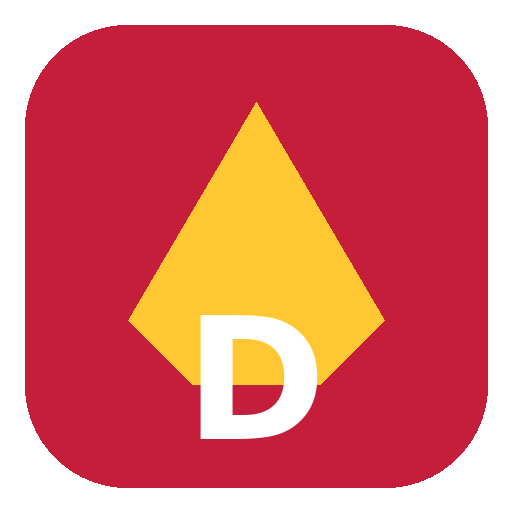
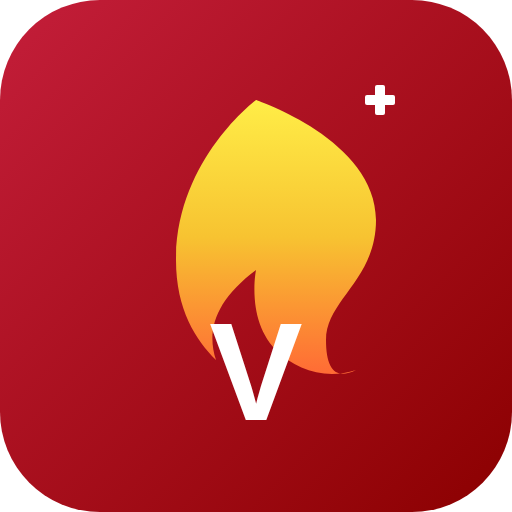
Nouveau nom : Vulcain (v1.13.0)
- DECIOPS devient Vulcain partout : en-tête (VUL/CAIN), titre, nom de
  l'application installée (manifest), À propos, pied de page, PDF générés,
  service worker, README, commentaires.
- Icône : lettre V au lieu de D ; PNG régénérés depuis icons/icon.svg.
- Clés de stockage « deciops.* » conservées : thème, favoris et historique
  des utilisateurs restent après la mise à jour.
- Explosimètre : une recherche tapée avant la fin du chargement de la liste
  des gaz est maintenant appliquée (le test correspondant échouait parfois).

Claude-Session: https://claude.ai/code/session_01SsUZJkSM2YeBHJQv6ctzzm

diff --git a/index.html b/index.html
@@ -3,16 +3,16 @@
 <head>
     <meta charset="UTF-8">
     <meta name="viewport" content="width=device-width, initial-scale=1.0, maximum-scale=5.0">
-    <meta name="version" content="1.12.0">
+    <meta name="version" content="1.13.0">
     <meta name="author" content="RESCUEAPP - LP ACADEMY">
-    <meta name="copyright" content="© 2025 RESCUEAPP - DECIOPS. Tous droits réservés.">
+    <meta name="copyright" content="© 2025 RESCUEAPP - Vulcain. Tous droits réservés.">
     <meta name="description" content="Outil d'aide à la décision opérationnelle pour sapeurs-pompiers - Conforme GDO">
     
     <!-- PWA Meta Tags -->
     <meta name="theme-color" content="#F3F4F6">
     <meta name="apple-mobile-web-app-capable" content="yes">
     <meta name="apple-mobile-web-app-status-bar-style" content="black-translucent">
-    <meta name="apple-mobile-web-app-title" content="DECIOPS">
+    <meta name="apple-mobile-web-app-title" content="Vulcain">
     <meta name="mobile-web-app-capable" content="yes">
     
     <!-- PWA Manifest -->
@@ -24,7 +24,7 @@
     <link rel="apple-touch-icon" sizes="152x152" href="icons/icon-152.png">
     <link rel="apple-touch-icon" sizes="180x180" href="icons/icon-192.png">
     
-    <title>DECIOPS</title>
+    <title>Vulcain</title>
     
     <!-- CSS externe -->
     <link rel="stylesheet" href="css/styles.css">
@@ -68,7 +68,7 @@
     <header class="app-header">
         <div class="app-brand">
             <small>Aide à la décision opérationnelle</small>
-            <h1>DECI<span>OPS</span></h1>
+            <h1>VUL<span>CAIN</span></h1>
         </div>
         <button class="app-header-btn about-btn" onclick="toggleAbout()" title="À propos" aria-label="À propos"><svg class="ico"><use href="#i-info"/></svg></button>
         <button class="app-header-btn" id="reglagesBtn" onclick="ouvrirReglages()" title="Réglages" aria-label="Réglages"><svg class="ico"><use href="#i-reglages"/></svg></button>
@@ -98,7 +98,7 @@
             <h2 style="color: var(--primary-red); margin-bottom: 20px; font-size: 1.8em;">ℹ À Propos</h2>
             
             <div style="line-height: 1.8;">
-                <h3 style="color: var(--primary-red); margin-top: 20px; margin-bottom: 10px;">📱 DECIOPS v<span class="app-version">1.12.0</span></h3>
+                <h3 style="color: var(--primary-red); margin-top: 20px; margin-bottom: 10px;">📱 Vulcain v<span class="app-version">1.13.0</span></h3>
                 <p><strong>Outil d'aide à la décision opérationnelle pour sapeurs-pompiers</strong></p>
                 
                 <!-- DÉVELOPPEUR ET ORIGINE -->
@@ -115,7 +115,7 @@
                 <h3 style="color: var(--primary-red); margin-top: 20px; margin-bottom: 10px;">💡 Pourquoi cette application ?</h3>
                 <p style="line-height: 1.7;">
                     Face aux situations opérationnelles complexes, les sapeurs-pompiers ont besoin d'outils fiables, 
-                    rapides et accessibles sur le terrain. <strong>DECIOPS</strong> est né de ce constat : centraliser 
+                    rapides et accessibles sur le terrain. <strong>Vulcain</strong> est né de ce constat : centraliser 
                     les calculs opérationnels essentiels dans une seule application, conforme à la doctrine (GDO), 
                     utilisable sans connexion Internet et optimisée pour les conditions d'intervention.<br><br>
                     De la puissance du feu aux calculs hydrauliques, en passant par les matières dangereuses et la 
@@ -160,7 +160,7 @@
                     <p style="margin: 0; line-height: 1.6;">
                         <strong style="color: var(--primary-red);">⚠ Clause de responsabilité</strong><br>
                         <span style="font-size: 0.95em;">
-                        DECIOPS est un <strong>outil d'aide à la décision</strong>. Il ne se substitue en aucun cas à la formation, l'expérience professionnelle, le jugement opérationnel et la responsabilité du chef d'agrès ou du commandant des opérations de secours.<br><br>
+                        Vulcain est un <strong>outil d'aide à la décision</strong>. Il ne se substitue en aucun cas à la formation, l'expérience professionnelle, le jugement opérationnel et la responsabilité du chef d'agrès ou du commandant des opérations de secours.<br><br>
                         <strong>L'utilisateur reste seul responsable de ses décisions opérationnelles.</strong><br><br>
                         Les données fournies sont indicatives et conformes aux documents de référence (GDO, INRS, ADR/RID, NF EN) à la date de publication. L'éditeur ne saurait être tenu responsable des dommages directs ou indirects résultant de l'utilisation de cette application.
                         </span>
@@ -203,8 +203,8 @@
                 
                 <div style="margin-top: 25px; padding: 15px; background: var(--bg-main); border-radius: 10px; text-align: center;">
                     <p style="margin: 0; color: var(--text-secondary); font-size: 0.9em;">
-                        DECIOPS v<span class="app-version">1.12.0</span><br>
-                        © 2025 RESCUEAPP - DECIOPS - Tous droits réservés<br>
+                        Vulcain v<span class="app-version">1.13.0</span><br>
+                        © 2025 RESCUEAPP - Vulcain - Tous droits réservés<br>
                         Éditeur : <strong>RESCUEAPP</strong> - <strong>LP ACADEMY</strong><br>
                         <strong>Par les pompiers, pour les pompiers</strong> 🚒
                     </p>
@@ -12168,7 +12168,7 @@
 
     <!-- Pied de page (les détails sont dans « À propos ») -->
     <footer class="app-footer">
-        <p><strong>DECIOPS v<span class="app-version">1.12.0</span></strong> · Outil d'aide à la décision opérationnelle · Conforme GDO</p>
+        <p><strong>Vulcain v<span class="app-version">1.13.0</span></strong> · Outil d'aide à la décision opérationnelle · Conforme GDO</p>
         <p>© 2025 RESCUEAPP · Tous droits réservés · Par les pompiers, pour les pompiers 🚒</p>
     </footer>
 

diff --git a/js/app.js b/js/app.js
@@ -1,6 +1,6 @@
 /**
  * ═══════════════════════════════════════════════════════════════════════
- * DÉCIOPS v1.12.0 - Outil d'aide à la décision opérationnelle
+ * Vulcain v1.13.0 - Outil d'aide à la décision opérationnelle
  * ═══════════════════════════════════════════════════════════════════════
  * Copyright (c) 2025 - RESCUEAPP
  * Version COMPLÈTE avec tous les modules fonctionnels
@@ -28,7 +28,7 @@ let appConfig = {};
 
 // ==================== INITIALISATION ====================
 async function initApp() {
-    console.log('🚒 DECIOPS v' + APP_VERSION + ' - Initialisation...');
+    console.log('🚒 Vulcain v' + APP_VERSION + ' - Initialisation...');
     try {
         const data = await DataLoader.loadAll();
         tmdDatabase = data.tmd || [];
@@ -56,7 +56,7 @@ function initializeApp() {
     
     setupEventListeners();
     initConversionData();
-    console.log('✅ DECIOPS v' + APP_VERSION + ' prêt !');
+    console.log('✅ Vulcain v' + APP_VERSION + ' prêt !');
 }
 
 function setupEventListeners() {
@@ -98,7 +98,7 @@ function showModule(moduleName) {
 }
 
 // ==================== À PROPOS ====================
-var APP_VERSION = '1.12.0';
+var APP_VERSION = '1.13.0';
 
 function toggleAbout() {
     var modal = document.getElementById('aboutModal');
@@ -1495,9 +1495,9 @@ function showFamilleHab(famille) {
 }
 
 // ═══════════════════════════════════════════════════════════════════════
-// FIN DU FICHIER - DECIOPS v1.12.0 COMPLET
+// FIN DU FICHIER - Vulcain v1.13.0 COMPLET
 // ═══════════════════════════════════════════════════════════════════════
-console.log('🚒 DECIOPS v' + APP_VERSION + ' - Tous les modules chargés avec succès');
+console.log('🚒 Vulcain v' + APP_VERSION + ' - Tous les modules chargés avec succès');
 
 // ═══════════════════════════════════════════════════════════════════════
 // MODULE EXTINCTEURS - CLASSES DE FEU

diff --git a/js/modules/commandement.js b/js/modules/commandement.js
@@ -1,5 +1,5 @@
 /**
- * DECIOPS - Commandement : PATRAC DR, DPIF, SMES, SOIEC, SAOIECL
+ * Vulcain - Commandement : PATRAC DR, DPIF, SMES, SOIEC, SAOIECL
  */
 // Restauré depuis js/app.js (version antérieure au commit 4c28be7 du 17/02/2026).
 
@@ -118,7 +118,7 @@ function printPatracDR() {
             </div>
             
             <div class="footer">
-                DECIOPS v${APP_VERSION} - Outil d'aide à la décision opérationnelle<br>
+                Vulcain v${APP_VERSION} - Outil d'aide à la décision opérationnelle<br>
                 Par les pompiers, pour les pompiers 🚒
             </div>
             
@@ -542,7 +542,7 @@ function printDPIF() {
             </div>
             
             <div class="footer">
-                DECIOPS v1.0 - Outil d'aide à la décision opérationnelle<br>
+                Vulcain - Outil d'aide à la décision opérationnelle<br>
                 Par les pompiers, pour les pompiers 🚒
             </div>
             
@@ -621,7 +621,7 @@ function printSMES() {
             </div>
             
             <div class="footer">
-                DECIOPS v1.0 - Outil d'aide à la décision opérationnelle<br>
+                Vulcain - Outil d'aide à la décision opérationnelle<br>
                 Par les pompiers, pour les pompiers 🚒
             </div>
             
@@ -701,7 +701,7 @@ function printSOIEC() {
             </div>
             
             <div class="footer">
-                DECIOPS v1.0 - Outil d'aide à la décision opérationnelle<br>
+                Vulcain - Outil d'aide à la décision opérationnelle<br>
                 Par les pompiers, pour les pompiers 🚒
             </div>
             
@@ -794,7 +794,7 @@ function printSAOIECL() {
             </div>
             
             <div class="footer">
-                DECIOPS v1.0 - Outil d'aide à la décision opérationnelle<br>
+                Vulcain - Outil d'aide à la décision opérationnelle<br>
                 Par les pompiers, pour les pompiers 🚒
             </div>
             

diff --git a/js/modules/ia-manoeuvre.js b/js/modules/ia-manoeuvre.js
@@ -1,5 +1,5 @@
 /**
- * DECIOPS - Générateur de manœuvre IA
+ * Vulcain - Générateur de manœuvre IA
  *
  * Le navigateur n'envoie que les paramètres du formulaire : le prompt est
  * construit côté serveur (api/gemini.js), ce qui empêche d'utiliser
@@ -170,13 +170,13 @@ function telechargerPDF() {
     let yPosition = margin;
     
     // En-tête avec logo et titre
-    doc.setFillColor(106, 27, 154); // Violet DECIOPS
+    doc.setFillColor(106, 27, 154); // Violet Vulcain
     doc.rect(0, 0, pageWidth, 35, 'F');
     
     doc.setTextColor(255, 255, 255);
     doc.setFontSize(20);
     doc.setFont('helvetica', 'bold');
-    doc.text('🚒 DECIOPS', margin, 15);
+    doc.text('🚒 Vulcain', margin, 15);
     
     doc.setFontSize(12);
     doc.setFont('helvetica', 'normal');
@@ -251,7 +251,7 @@ function telechargerPDF() {
         doc.setTextColor(128, 128, 128);
         doc.setFont('helvetica', 'italic');
         doc.text(
-            `DECIOPS v1.9 - Scénario généré le ${new Date().toLocaleDateString('fr-FR')} - Page ${i}/${totalPages}`,
+            `Vulcain v${APP_VERSION} - Scénario généré le ${new Date().toLocaleDateString('fr-FR')} - Page ${i}/${totalPages}`,
             pageWidth / 2,
             pageHeight - 10,
             { align: 'center' }

diff --git a/js/pwa-theme.js b/js/pwa-theme.js
@@ -1,14 +1,14 @@
 /**
- * DECIOPS - Service worker et installation PWA
+ * Vulcain - Service worker et installation PWA
  */
 if ('serviceWorker' in navigator) {
     window.addEventListener('load', () => {
         navigator.serviceWorker.register('./sw.js')
             .then(registration => {
-                console.log('🚒 DECIOPS: Service Worker enregistré avec succès');
+                console.log('🚒 Vulcain: Service Worker enregistré avec succès');
             })
             .catch(error => {
-                console.log('🚒 DECIOPS: Erreur Service Worker:', error);
+                console.log('🚒 Vulcain: Erreur Service Worker:', error);
             });
     });
 }
@@ -19,7 +19,7 @@ window.addEventListener('beforeinstallprompt', (e) => {
     e.preventDefault();
     deferredPrompt = e;
     // Afficher un bouton d'installation si souhaité
-    console.log('🚒 DECIOPS: Application installable');
+    console.log('🚒 Vulcain: Application installable');
 });
 
 // Thème clair / sombre : voir js/theme.js (Réglages)

diff --git a/sw.js b/sw.js
@@ -1,5 +1,5 @@
-// DECIOPS Service Worker v1.12.0
-const CACHE_NAME = 'deciops-v1.12.0';
+// Vulcain Service Worker v1.13.0
+const CACHE_NAME = 'vulcain-v1.13.0';
 const urlsToCache = [
   './',
   './index.html',
@@ -47,7 +47,7 @@ self.addEventListener('install', event => {
   event.waitUntil(
     caches.open(CACHE_NAME)
       .then(cache => {
-        console.log('🚒 DECIOPS: Cache ouvert');
+        console.log('🚒 Vulcain: Cache ouvert');
         return cache.addAll(urlsToCache);
       })
       .then(() => self.skipWaiting())
@@ -61,7 +61,7 @@ self.addEventListener('activate', event => {
       return Promise.all(
         cacheNames.map(cacheName => {
           if (cacheName !== CACHE_NAME) {
-            console.log('🚒 DECIOPS: Suppression ancien cache:', cacheName);
+            console.log('🚒 Vulcain: Suppression ancien cache:', cacheName);
             return caches.delete(cacheName);
           }
         })

diff --git a/js/theme.js b/js/theme.js
@@ -1,5 +1,5 @@
 /**
- * DECIOPS - Thème (Réglages › Apparence)
+ * Vulcain - Thème (Réglages › Apparence)
  *
  * Deux habillages : « clair » (Clair épuré) et « sombre » (Nuit opérationnelle).
  * Préférence enregistrée sur l'appareil : "auto" (suit le téléphone), "clair" ou "sombre".
@@ -7,7 +7,7 @@
  * Chargé dans <head> pour appliquer le thème avant l'affichage (pas de clignotement).
  */
 const Theme = (function() {
-    const CLE = 'deciops.theme';
+    const CLE = 'deciops.theme';   // clé gardée de l'ancien nom : les préférences restent
     const PAR_DEFAUT = 'auto';
     const COULEUR_BARRE = { clair: '#F3F4F6', sombre: '#0D0E10' };
     const sombreSysteme = window.matchMedia ? window.matchMedia('(prefers-color-scheme: dark)') : null;

diff --git a/js/navigation.js b/js/navigation.js
@@ -1,5 +1,5 @@
 /**
- * DECIOPS - Navigation (design A : onglets + menus déroulants)
+ * Vulcain - Navigation (design A : onglets + menus déroulants)
  *
  * Tout est généré à partir de data/navigation.json :
  *  - accueil : un menu déroulant par domaine, un sous-menu par thème ;
@@ -16,6 +16,7 @@ const Navigation = (function() {
         presentation: { court: 'INFO', classe: 'info' },
         menu: { court: 'MENU', classe: '' }
     };
+    // Clés gardées de l'ancien nom (DECIOPS) : favoris et historique restent après le renommage
     const CLE_FAVORIS = 'deciops.favoris';
     const CLE_RECENTS = 'deciops.recents';
     const CLE_OUVERTS = 'deciops.menusOuverts';

diff --git a/guides-gmu.js b/guides-gmu.js
@@ -1,6 +1,6 @@
 /**
  * ═══════════════════════════════════════════════════════════════════════
- * DÉCIOPS - GUIDES GMU COMPLETS + ASSOCIATIONS ONU
+ * Vulcain - GUIDES GMU COMPLETS + ASSOCIATIONS ONU
  * Fiches d'intervention d'urgence - Matières dangereuses
  * Version corrigée pour la France (18, ARI)
  * ═══════════════════════════════════════════════════════════════════════

diff --git a/gmu-integration.js b/gmu-integration.js
@@ -1,6 +1,6 @@
 /**
  * ═══════════════════════════════════════════════════════════════════════
- * DÉCIOPS - Intégration GMU
+ * Vulcain - Intégration GMU
  * Fichier ADDITIONNEL qui ajoute les boutons GMU sans modifier app.js
  * ═══════════════════════════════════════════════════════════════════════
  */

diff --git a/js/modules/gaz.js b/js/modules/gaz.js
@@ -1,5 +1,5 @@
 /**
- * DECIOPS - Explosimétrie : correction des valeurs selon le gaz d'étalonnage
+ * Vulcain - Explosimétrie : correction des valeurs selon le gaz d'étalonnage
  * Données : data/gaz.json (chargé par js/app.js dans gazDatabase)
  */
 // Restauré depuis js/app.js (version antérieure au commit 4c28be7 du 17/02/2026),
@@ -69,6 +69,8 @@ function remplirGazPresents() {
     }
     
     grid.innerHTML = html;
+    // Recherche tapée avant la fin du chargement : on l'applique à la liste
+    filterGazButtons();
 }
 
 // Fonction de filtrage des gaz par recherche

diff --git a/api/gemini.js b/api/gemini.js
@@ -1,7 +1,7 @@
 // api/gemini.js - Fonction serverless Vercel : générateur de manœuvre (API Claude, streaming)
 //
 // Protections :
-//  - seules les origines DECIOPS connues sont acceptées (ALLOWED_ORIGINS pour en ajouter) ;
+//  - seules les origines Vulcain connues sont acceptées (ALLOWED_ORIGINS pour en ajouter) ;
 //  - limite de requêtes par adresse IP ;
 //  - le prompt est construit ICI à partir des paramètres du formulaire, avec des
 //    tailles plafonnées : l'endpoint ne peut pas servir d'accès libre à l'IA.
